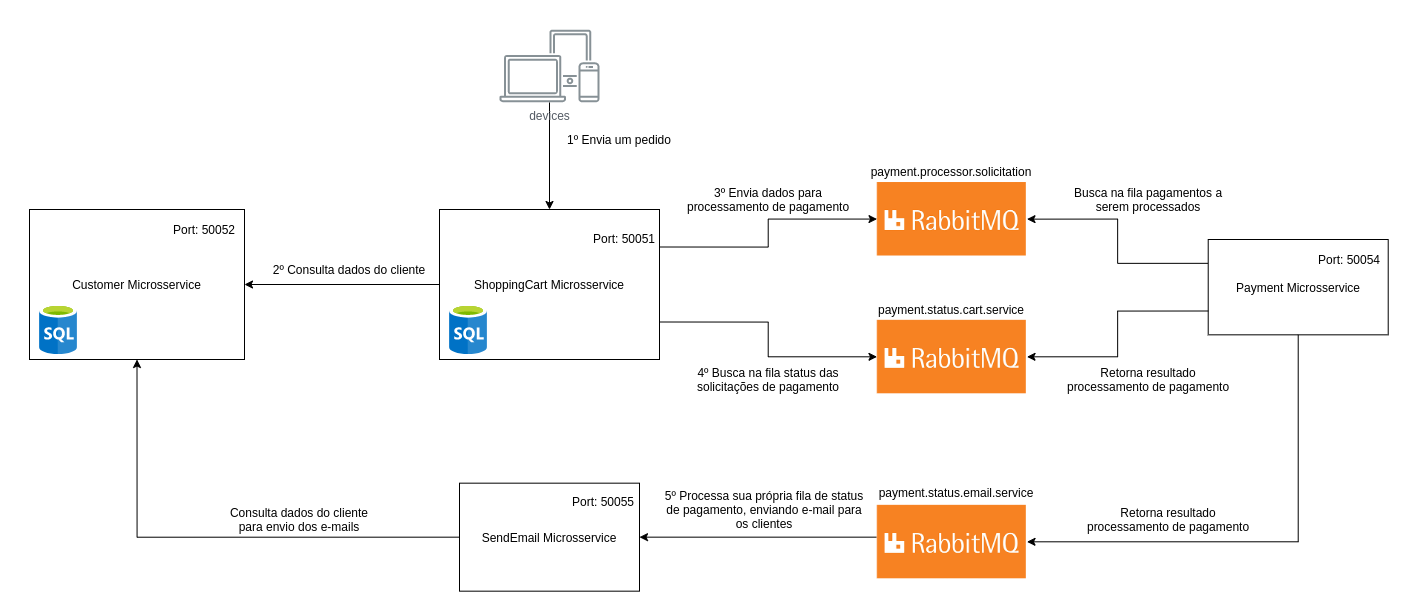
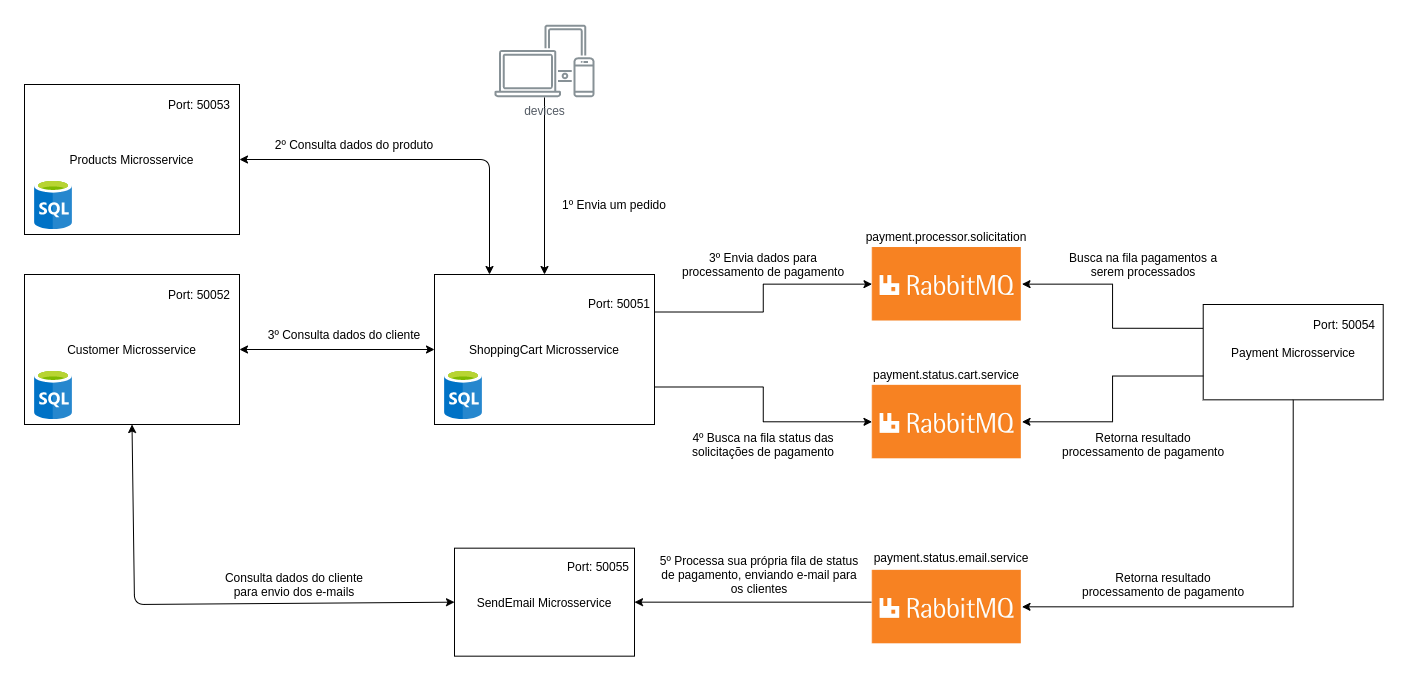
feat: implements product service and shopping cart service integration

diff --git a/shopping-cart-service/src/main/java/br/com/tony/shoppingcart/resource/OrderResource.java b/shopping-cart-service/src/main/java/br/com/tony/shoppingcart/resource/OrderResource.java
@@ -4,35 +4,25 @@ import br.com.tony.shoppingcart.OrderRequest;
 import br.com.tony.shoppingcart.OrderResponse;
 import br.com.tony.shoppingcart.OrderServiceGrpc;
 import br.com.tony.shoppingcart.entity.Order;
-import br.com.tony.shoppingcart.repository.OrderRepository;
+import br.com.tony.shoppingcart.service.OrderService;
 import br.com.tony.shoppingcart.service.PaymentService;
 import io.grpc.stub.StreamObserver;
 import io.micronaut.grpc.annotation.GrpcService;
 
-import javax.inject.Inject;
-
 @GrpcService
 public class OrderResource extends OrderServiceGrpc.OrderServiceImplBase {
 
-    @Inject
     private final PaymentService paymentService;
+    private final OrderService orderService;
 
-    @Inject
-    private final OrderRepository orderRepository;
-
-    public OrderResource(PaymentService paymentService, OrderRepository orderRepository) {
+    public OrderResource(PaymentService paymentService, OrderService orderService) {
         this.paymentService = paymentService;
-        this.orderRepository = orderRepository;
+        this.orderService = orderService;
     }
 
     @Override
     public void order(OrderRequest request, StreamObserver<OrderResponse> responseObserver) {
-        Order order = this.orderRepository.save(Order.builder()
-                .clientId(request.getCustomer().getId())
-                .productId(request.getProduct().getProductId())
-                .quantity(request.getProduct().getQuantity())
-                .amount(request.getProduct().getPrice() * request.getProduct().getQuantity())
-                .build());
+        Order order = this.orderService.createOrder(request);
 
         this.paymentService.sendPaymentProcessor(order);
 

diff --git a/shopping-cart-service/src/main/java/br/com/tony/shoppingcart/integration/ProductServiceIntegration.java b/shopping-cart-service/src/main/java/br/com/tony/shoppingcart/integration/ProductServiceIntegration.java
@@ -1,0 +1,38 @@
+package br.com.tony.shoppingcart.integration;
+
+import br.com.tony.shoppingcart.FindProductByIdRequest;
+import br.com.tony.shoppingcart.ProductResponse;
+import br.com.tony.shoppingcart.config.ChannelFactory;
+import br.com.tony.shoppingcart.dto.ProductDTO;
+import org.slf4j.Logger;
+import org.slf4j.LoggerFactory;
+
+import javax.inject.Singleton;
+
+@Singleton
+public class ProductServiceIntegration {
+
+    private static final Logger logger = LoggerFactory.getLogger(ProductServiceIntegration.class);
+
+    private final ChannelFactory channelFactory;
+
+    public ProductServiceIntegration(ChannelFactory channelFactory) {
+        this.channelFactory = channelFactory;
+    }
+
+    public ProductDTO getProduct(Long productId) {
+        logger.info("## BUSCANDO DADOS DO PRODUTO NO PRODUCT SERVICE ##");
+        ProductResponse productResponse = channelFactory.productStub()
+                .findProductById(FindProductByIdRequest.newBuilder()
+                        .setId(productId)
+                        .build());
+
+        logger.info("Dados encontrados!");
+        logger.info("#################################################");
+        return ProductDTO.builder()
+                .id(productResponse.getId())
+                .name(productResponse.getName())
+                .price(productResponse.getPrice())
+                .build();
+    }
+}

diff --git a/shopping-cart-service/src/main/java/br/com/tony/shoppingcart/service/OrderService.java b/shopping-cart-service/src/main/java/br/com/tony/shoppingcart/service/OrderService.java
@@ -1,0 +1,33 @@
+package br.com.tony.shoppingcart.service;
+
+import br.com.tony.shoppingcart.OrderRequest;
+import br.com.tony.shoppingcart.dto.ProductDTO;
+import br.com.tony.shoppingcart.entity.Order;
+import br.com.tony.shoppingcart.integration.ProductServiceIntegration;
+import br.com.tony.shoppingcart.repository.OrderRepository;
+
+import javax.inject.Singleton;
+
+@Singleton
+public class OrderService {
+
+    private final OrderRepository orderRepository;
+    private final ProductServiceIntegration productServiceIntegration;
+
+    public OrderService(OrderRepository orderRepository, ProductServiceIntegration productServiceIntegration) {
+        this.orderRepository = orderRepository;
+        this.productServiceIntegration = productServiceIntegration;
+    }
+
+    public Order createOrder(OrderRequest request) {
+        ProductDTO productDTO = this.productServiceIntegration
+                .getProduct(request.getProduct().getProductId());
+
+        return this.orderRepository.save(Order.builder()
+                .clientId(request.getCustomer().getId())
+                .productId(request.getProduct().getProductId())
+                .quantity(request.getProduct().getQuantity())
+                .amount(productDTO.getPrice() * request.getProduct().getQuantity())
+                .build());
+    }
+}

diff --git a/shopping-cart-service/src/main/java/br/com/tony/shoppingcart/config/ChannelFactory.java b/shopping-cart-service/src/main/java/br/com/tony/shoppingcart/config/ChannelFactory.java
@@ -1,6 +1,7 @@
 package br.com.tony.shoppingcart.config;
 
 import br.com.tony.customer.CustomerServiceGrpc;
+import br.com.tony.shoppingcart.ProductServiceGrpc;
 import io.grpc.ManagedChannel;
 import io.micronaut.context.annotation.Factory;
 import io.micronaut.grpc.annotation.GrpcChannel;
@@ -15,8 +16,17 @@ public class ChannelFactory {
     @GrpcChannel("customer")
     private ManagedChannel customerChannel;
 
+    @Inject
+    @GrpcChannel("product")
+    private ManagedChannel productChannel;
+
     @Singleton
     public CustomerServiceGrpc.CustomerServiceBlockingStub customerStub() {
         return CustomerServiceGrpc.newBlockingStub(customerChannel);
+    }
+
+    @Singleton
+    public ProductServiceGrpc.ProductServiceBlockingStub productStub() {
+        return ProductServiceGrpc.newBlockingStub(productChannel);
     }
 }

diff --git a/shopping-cart-service/src/main/java/br/com/tony/shoppingcart/dto/ProductDTO.java b/shopping-cart-service/src/main/java/br/com/tony/shoppingcart/dto/ProductDTO.java
@@ -1,0 +1,12 @@
+package br.com.tony.shoppingcart.dto;
+
+import lombok.Builder;
+import lombok.Getter;
+
+@Builder
+@Getter
+public class ProductDTO {
+    private final Long id;
+    private final String name;
+    private final Double price;
+}
